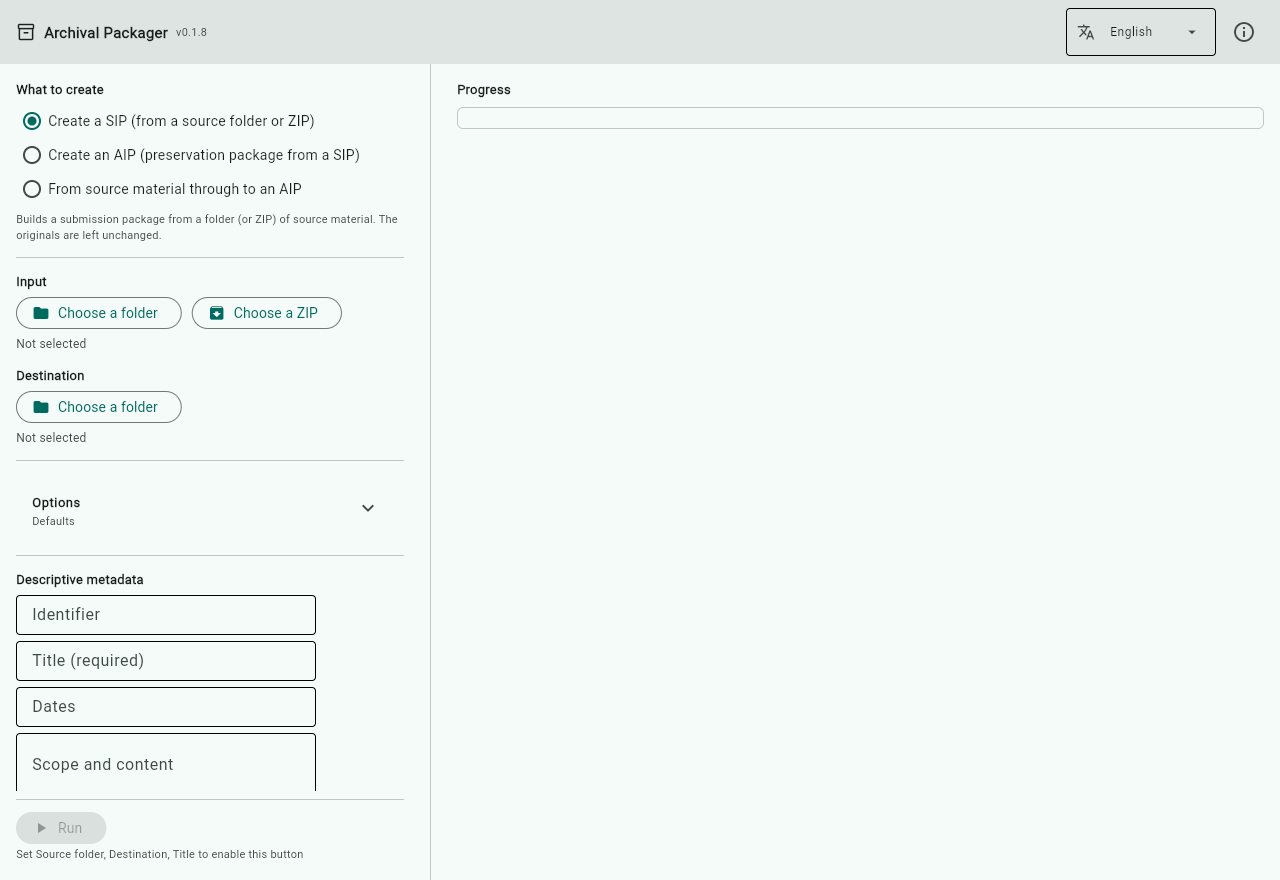
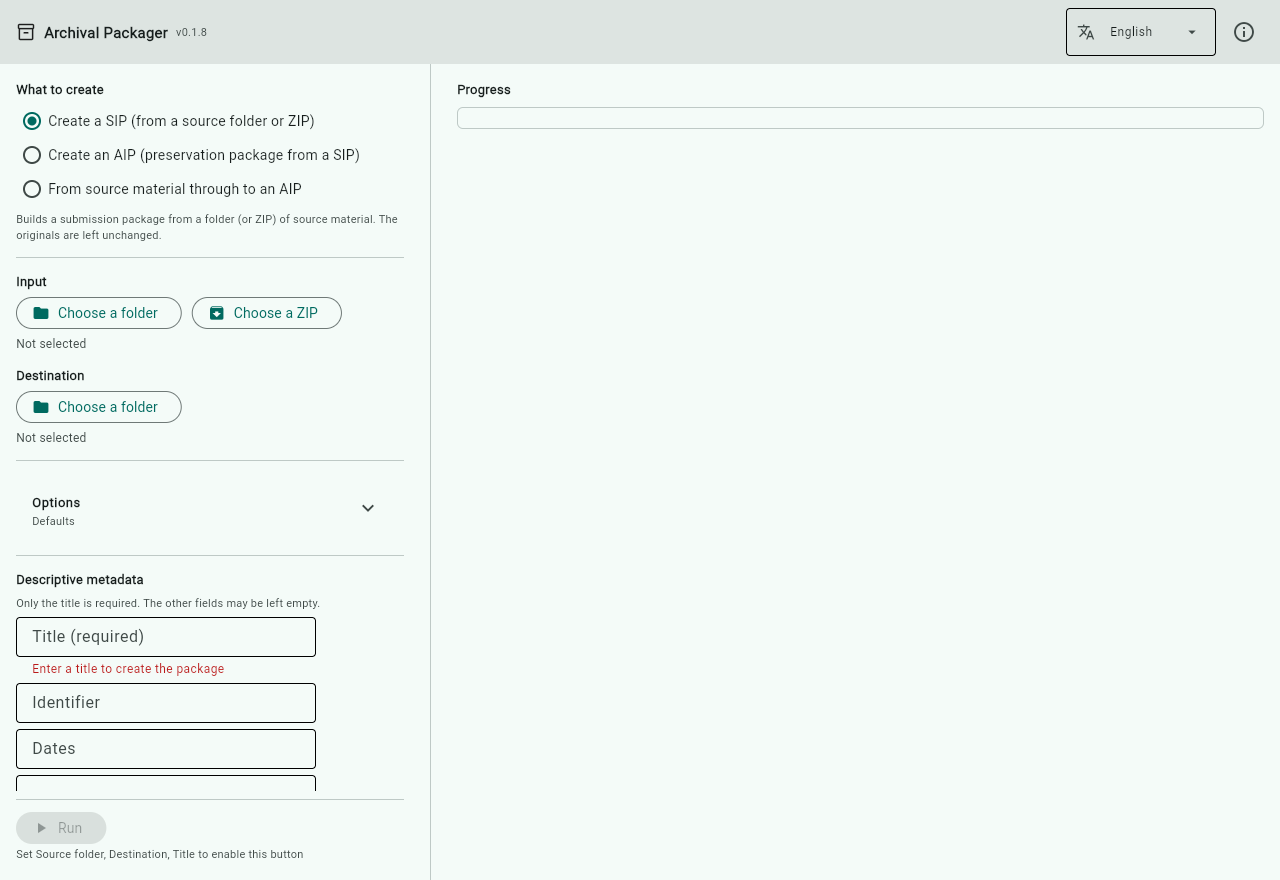
Put the required title first in the descriptive metadata form
The title was the second field, so people started from the identifier and
missed the "(required)" in its label. The title now comes first, a line
under the heading says only the title is required, and while it is empty a
red note under the field says the package cannot be created without it.
The manual's field table and screenshots follow the new order.

Changed region(s): [[0.0, 0.675, 0.25, 0.8898]]

diff --git a/src/archival_packager/ui/app.py b/src/archival_packager/ui/app.py
@@ -188,9 +188,17 @@ def main(page: ft.Page) -> None:
     # 記述メタデータ
     # ------------------------------------------------------------------
 
-    identifier = ft.TextField(label=t("識別子"), hint_text=t("例: 2026-移管-総務課"), dense=True)
+    # **必須のタイトルを先頭に置く。** 2 番目にあると、ラベルの「（必須）」を
+    # 読み落として識別子から埋め始め、押せない理由を探すことになる（2026-10-27 の指摘）。
+    # 空のあいだは欄の下に赤字で理由を出す（refresh_run_enabled）。
     title = ft.TextField(
-        label=t("タイトル（必須）"), hint_text=t("例: 総務課 一般文書"), dense=True
+        label=t("タイトル（必須）"), hint_text=t("例: 総務課 一般文書"), dense=True,
+        helper_style=ft.TextStyle(color=ft.Colors.ERROR),
+    )
+    identifier = ft.TextField(label=t("識別子"), hint_text=t("例: 2026-移管-総務課"), dense=True)
+    metadata_note = ft.Text(
+        t("タイトルだけ必須です。ほかは空でもかまいません。"),
+        size=11, color=ft.Colors.ON_SURFACE_VARIANT,
     )
     scope_note = ft.TextField(
         label=t("内容・範囲"), multiline=True, min_lines=2, max_lines=4, dense=True
@@ -326,8 +334,10 @@ def main(page: ft.Page) -> None:
             missing.append(t("素材フォルダ") if mode.value != MODE_AIP else t("SIP フォルダ"))
         if state.output_parent is None:
             missing.append(t("出力先"))
-        if needs_title and not (title.value or "").strip():
+        title_missing = needs_title and not (title.value or "").strip()
+        if title_missing:
             missing.append(t("タイトル"))
+        title.helper = t("空のままでは作成できません") if title_missing else None
 
         input_problem, output_problem = selection_problems()
         input_note.value = input_problem
@@ -766,7 +776,7 @@ def main(page: ft.Page) -> None:
     )
 
     metadata_section = section(
-        t("記述メタデータ"), identifier, title, date_note, scope_note, archivist
+        t("記述メタデータ"), metadata_note, title, identifier, date_note, scope_note, archivist
     )
     virus_section = section(t("ウイルス定義データベース"), virus_db_status, virus_db_button)
 

diff --git a/tests/test_ui_wiring.py b/tests/test_ui_wiring.py
@@ -379,6 +379,14 @@ class TestFormFollowsTheSelectedMode:
         body = source.split("def apply_mode(")[1].split("mode.on_change")[0]
         assert "metadata_section.visible = makes_sip" in body
 
+    def test_required_title_comes_first(self):
+        """必須のタイトルが 2 番目にあると、識別子から埋め始めて（必須）を読み落とす。
+        先頭に置き、空のあいだは欄の下に理由を出す。"""
+        source = inspect.getsource(ui_app.main)
+        body = source.split("metadata_section = section(")[1].split("virus_section")[0]
+        assert "metadata_note, title, identifier," in body
+        assert "title.helper = " in source
+
     def test_update_is_guarded_before_mount(self):
         """初回は page.add より前に呼ばれる。載る前に update すると落ちる。
 

diff --git a/src/archival_packager/locales/en.py b/src/archival_packager/locales/en.py
@@ -89,6 +89,9 @@ TEXTS: dict[str, str] = {
     "識別子": "Identifier",
     "例: 2026-移管-総務課": "e.g. 2026-transfer-general-affairs",
     "タイトル（必須）": "Title (required)",
+    "タイトルだけ必須です。ほかは空でもかまいません。":
+        "Only the title is required. The other fields may be left empty.",
+    "空のままでは作成できません": "Enter a title to create the package",
     "例: 総務課 一般文書": "e.g. General Affairs Division, general records",
     "内容・範囲": "Scope and content",
     "年代": "Dates",

diff --git a/scripts/docs/capture_manual.py b/scripts/docs/capture_manual.py
@@ -265,7 +265,7 @@ def story(d: Driver, cam: Camera, out: Path) -> None:
            "総務課 移管文書" if d.lang == "ja" else "Records transfer, General Affairs")
     d.type("年代", "2024–2025")
     blur()
-    cam.shot("metadata", band(d.find(None, "識別子"), d.find(None, "内容・範囲"), top=26),
+    cam.shot("metadata", band(d.find(None, "タイトル（必須）"), d.find(None, "内容・範囲"), top=46),
              clip=left_col)
 
     # ---- オプション ---------------------------------------------------

diff --git a/docs/manual/index.md b/docs/manual/index.md
@@ -109,8 +109,8 @@ SIP（受入パッケージ）は、受け入れた資料を、**そのままの
 
 | 欄 | 入れるもの |
 | --- | --- |
-| 識別子 | この受け入れを区別する名前（例: `2026-移管-総務課`）。**パッケージのフォルダ名**になります |
 | タイトル（必須） | 資料のまとまりの名前。**これだけは必ず入れます** |
+| 識別子 | この受け入れを区別する名前（例: `2026-移管-総務課`）。**パッケージのフォルダ名**になります |
 | 年代 | 資料の年代（例: `2024–2025`） |
 | 内容・範囲 | どんな資料か、どこからどこまでか |
 | 担当者名 | 作業をした人の名前。AIP の処理の記録に、作業者として残ります |

diff --git a/docs/manual/en.md b/docs/manual/en.md
@@ -106,8 +106,8 @@ Enter information about the material. It is kept in the package as the accession
 
 | Field | What to enter |
 | --- | --- |
-| Identifier | A name that tells this accession apart (for example `2026-transfer-01`). **It becomes the package's folder name** |
 | Title (required) | A name for the body of material. **This is the only field you must fill in** |
+| Identifier | A name that tells this accession apart (for example `2026-transfer-01`). **It becomes the package's folder name** |
 | Dates | The period the material covers (for example `2024–2025`) |
 | Scope and content | What the material is, and what it covers |
 | Archivist | Who did the work. It is recorded in the AIP's preservation events as the person responsible |
